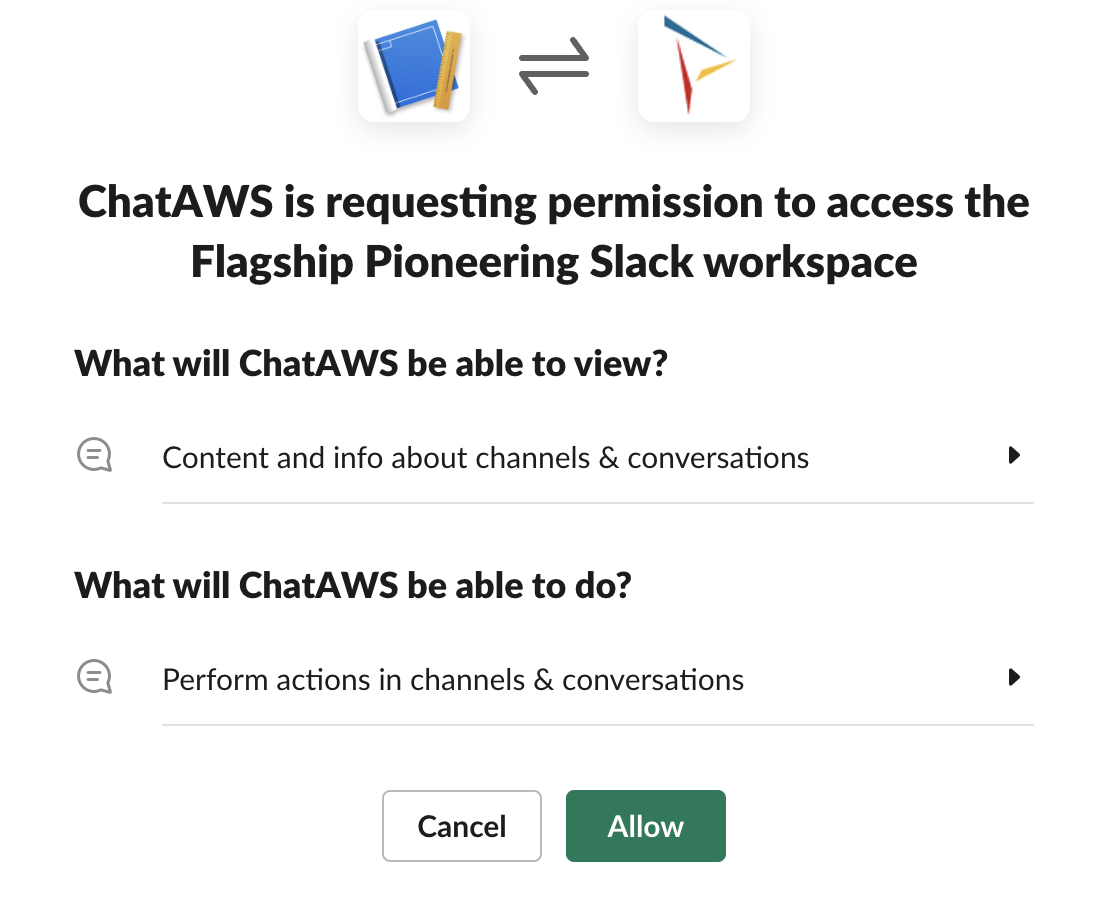
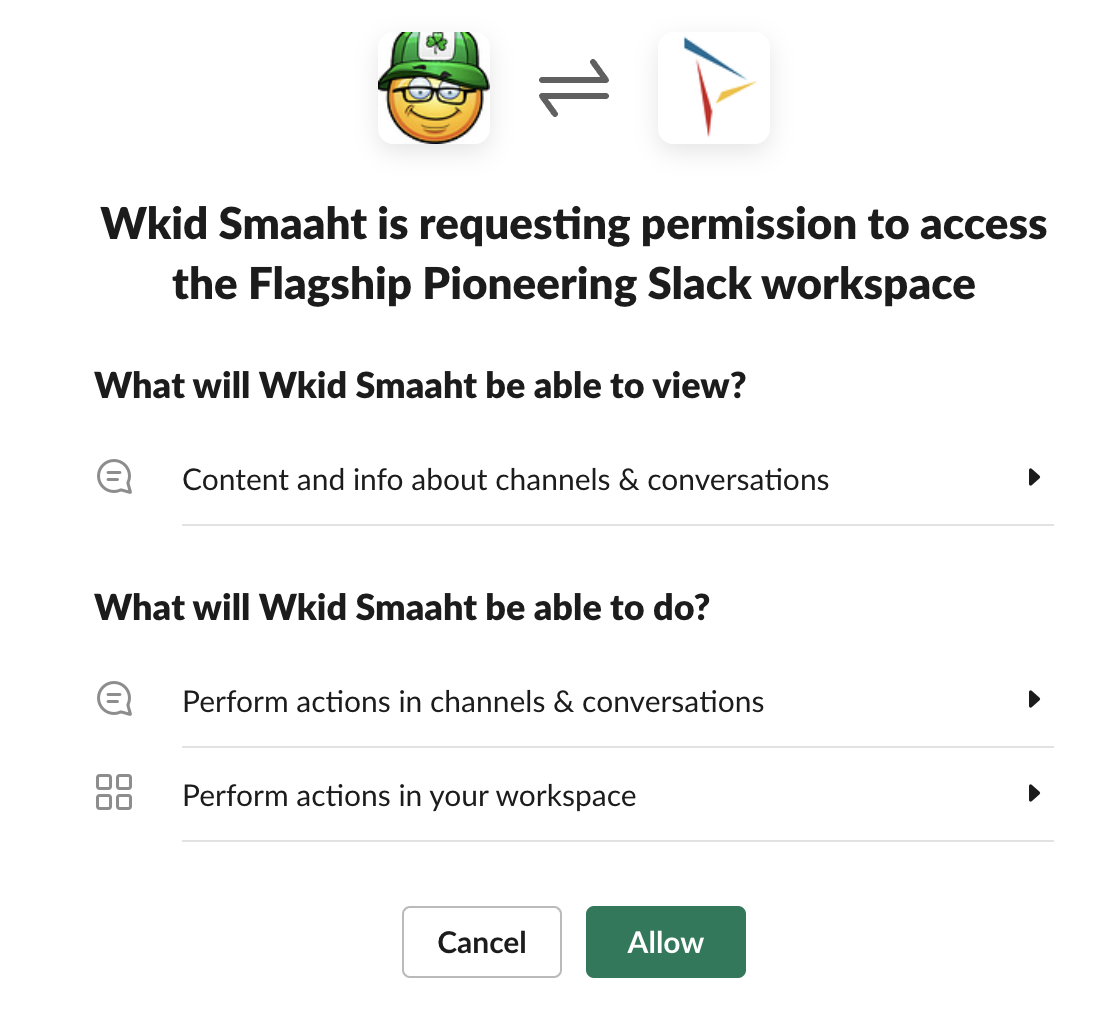
minor mods

diff --git a/README.md b/README.md
@@ -10,8 +10,7 @@ Wkid Smaaht Slack brings the power of GPT4 to Slack. It's like having an expert 
 - Serverless: Runs on AWS Fargate. This means it's always on and there's no infrastructure to manage
 - Easy to use: Just type @Wkid Smaaht in Slack
 
-## Examples
-![CLI commands](/images/s3-search.p)
+    <img src="images/introducing.png" alt="Allow" width="500"/>
 
 ## Prerequisites
 
@@ -60,12 +59,11 @@ There are three major components to this application: the code, the AWS environm
         - Choose to create an app **from an app manifest**.
         - Choose a Slack workspace for your app
         - Select YAML and paste the contents of `slack-app-manifest.yml' in the input field. Click *Next*
-    - Click Install to Workspace (or Request to Install if you're not a Slack admin)        
+    - Click Install to Workspace (or Request to Install if you're not a Slack admin)    
+    - To set the Slack App icon, look for the Add App Icon under Basic Information. Upload `images/wkid_smaaht_small.jpg`        
     - Click Allow 
 
         <img src="images/slack-app-install.png" alt="Allow" width="300"/>
-    
-    - To set the Slack App icon, look for the Add App Icon under Basic Information. Upload `images/wkid_smaaht_small.jpg`
 
     - Get Slack App and Bot tokens
         - Under Basic Information, scroll down to App-Level Tokens and click Generate Token and Scopes
@@ -78,6 +76,8 @@ There are three major components to this application: the code, the AWS environm
 
     <img src="images/slack-app-dev.png" alt="Allow" width="400"/>
 - Search for Wkid Smaaht and click Add
+
+    <img src="images/slack-app-invite.png" alt="Allow" width="300"/>
 - Verify you can call it by typing `@Wkid Smaaht`. It won't do anything yet.
 - Verify the app can write to the channel. 
     - Get the Slack channel id for the channel you just invited the bot to (you can find this in Slack by clicking the drop down your channel name and scrolling to the bottom)
@@ -222,6 +222,11 @@ You can add your own system prompts to the DynamoDB table and they'll automatica
 
 ## How it's Built
 This project leverages the [Bolt-Python](https://slack.dev/bolt-python/tutorial/getting-started) framework for building Slack applications, and uses code from the [Slack GPT Bot](https://github.com/alex000kim/slack-gpt-bot) project and the deeplearning.ai course, [Building Systems with the ChatGPT API](https://learn.deeplearning.ai/chatgpt-building-system/lesson/1/introduction).
+
+
+## Examples
+<img src="images/s3-search.png" alt="Allow" width="500"/>
+
 
 ### Architecture
 
